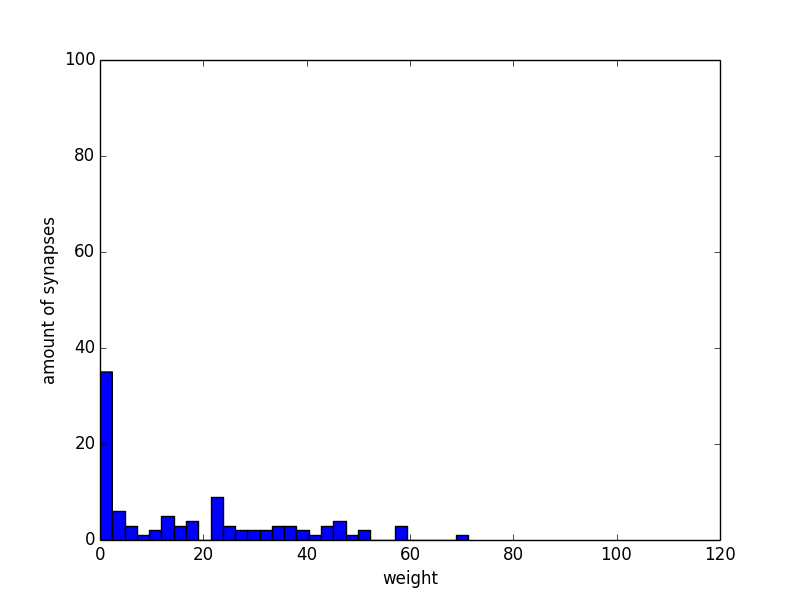
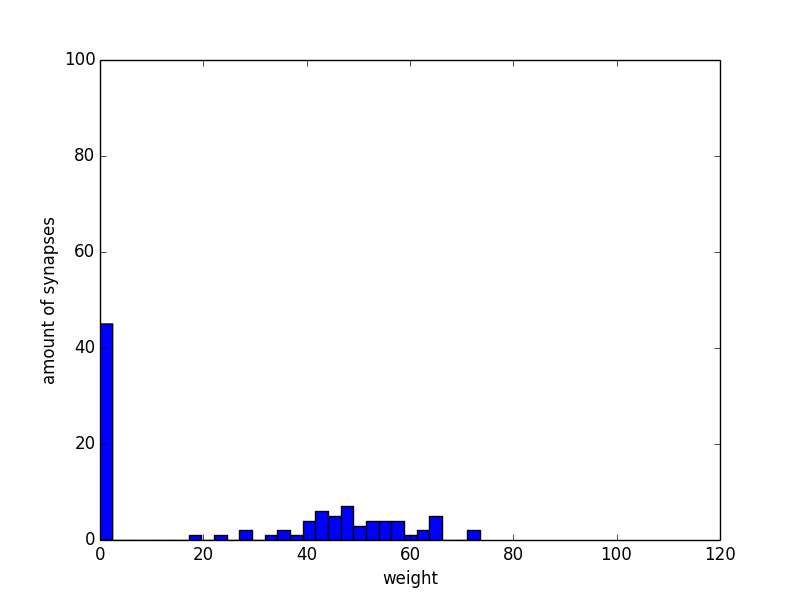
upd

Changed region(s): [[0.125, 0.81, 0.625, 0.9], [0.125, 0.54, 0.1562, 0.63]]

diff --git a/py/little_weight_analyser.py b/py/little_weight_analyser.py
@@ -52,7 +52,7 @@ def calcAPlotMainPoints(_fig_iter):
     wfi = importWeightsAsArray('../data/weight_final.txt')
 
     plotWeigthHistogram(trg, _fig_iter, 30, '_target_weights')
-    # plotWeigthHistogram(stw, _fig_iter, 30, '_new_gamma_weights')
+    plotWeigthHistogram(stw, _fig_iter, 30, '_new_gamma_weights')
     plotWeigthHistogram(wfi, _fig_iter, 30, '_final_weights')
 
     print 'Difference between target and start 2: ',
